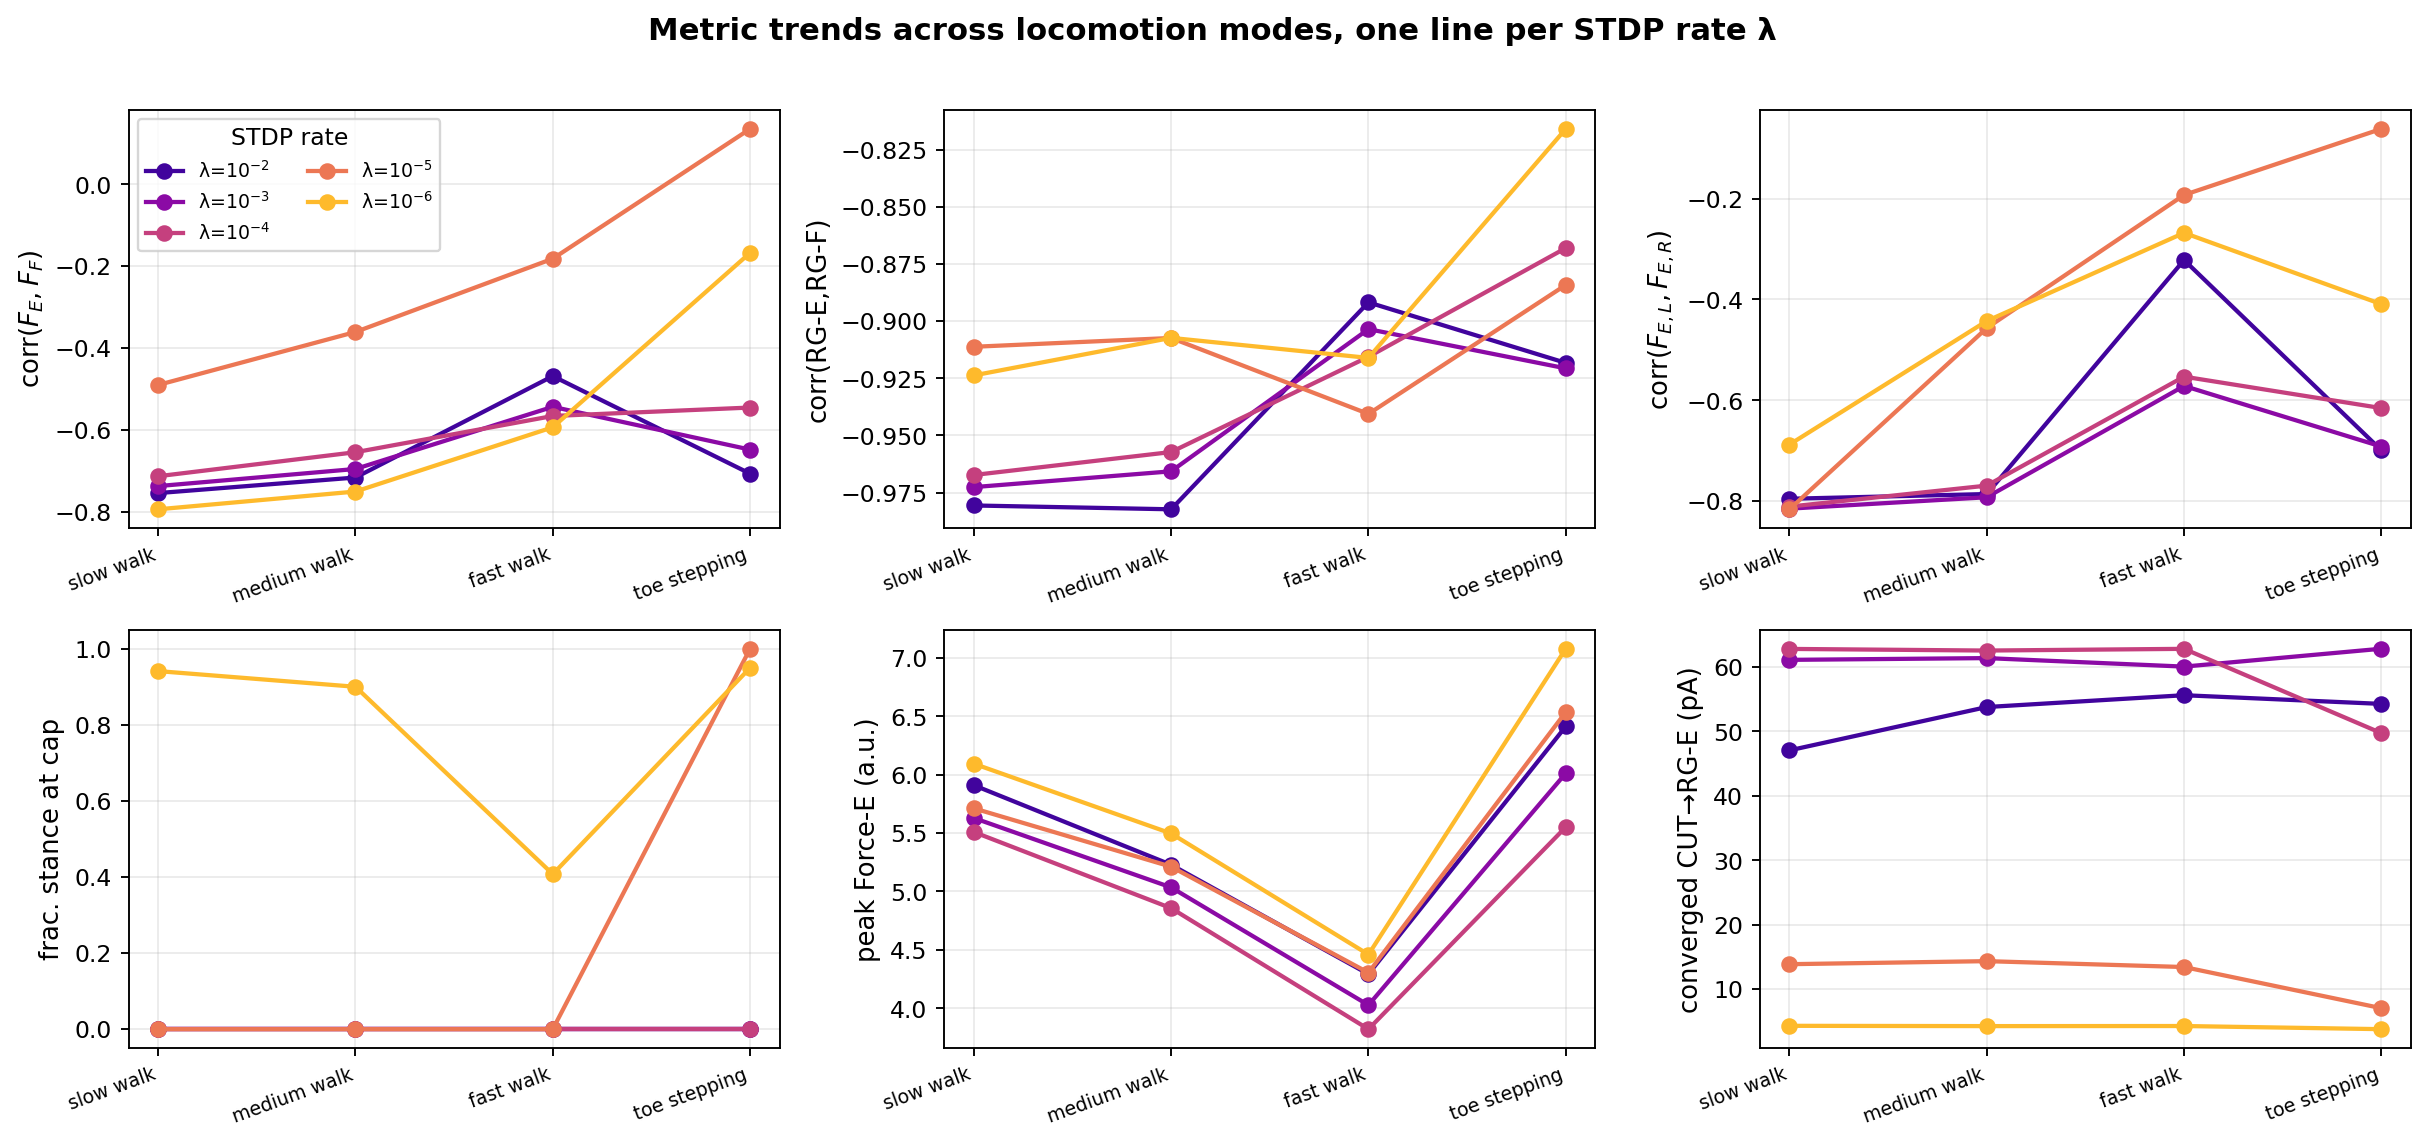
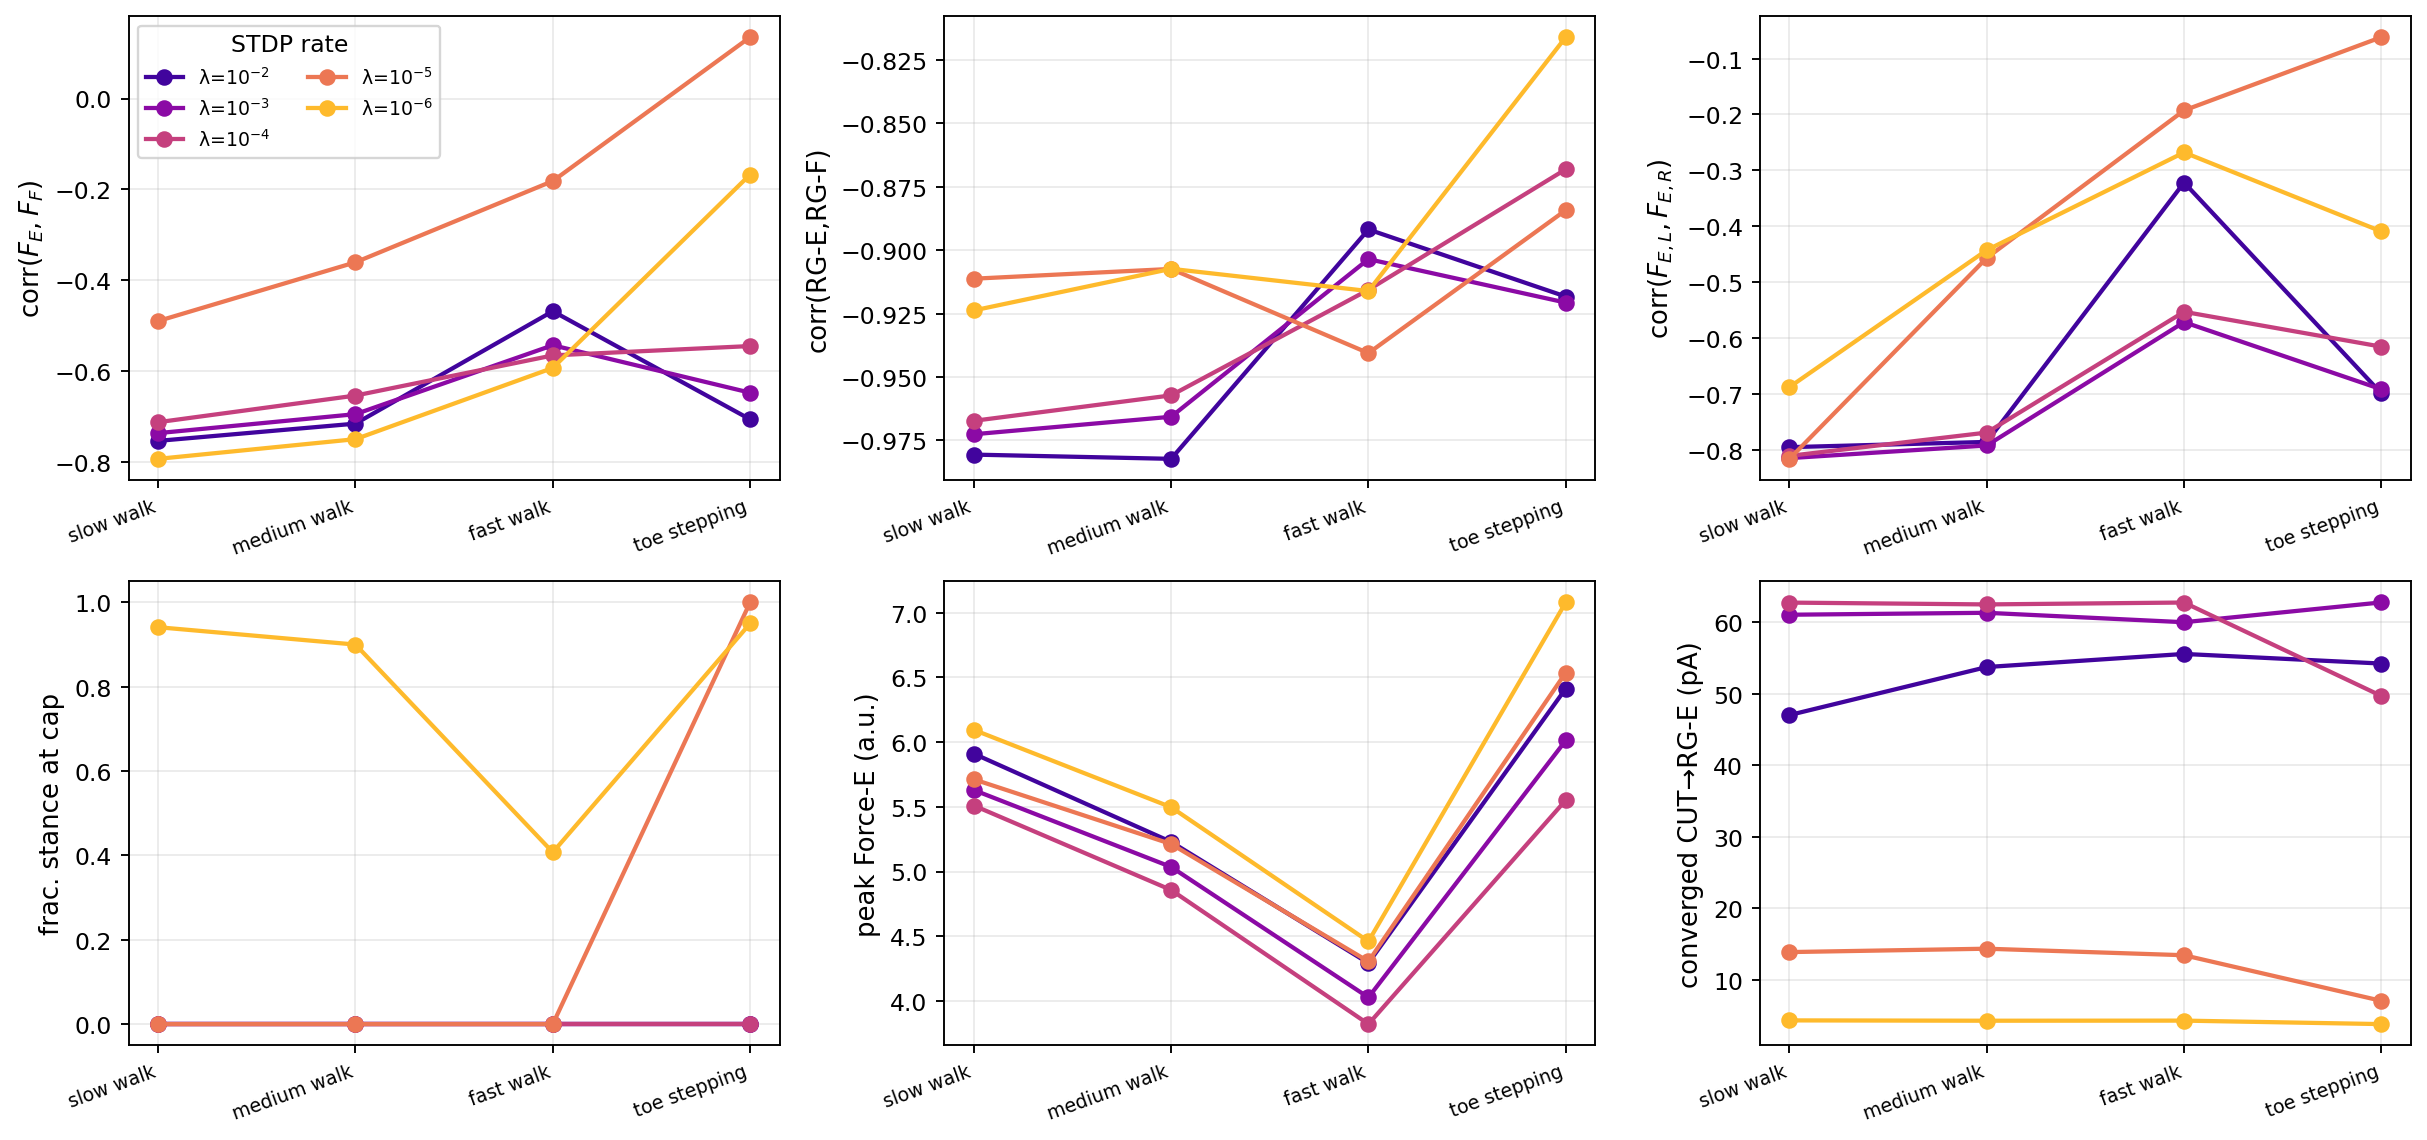
Paper: add abstract, fix float placement, improve figure legibility
- Abstract written for the force-triggered descending-arm results and
  re-enabled in main.tex; keywords updated.
- \clearpage before the Discussion so Results figures/tables no longer
  float into it; keep the supplementary connectivity table with its heading.
- Fig 3 (round 6) relaid out 2x2; Fig 4 decluttered with larger fonts;
  Fig 16 in-figure title removed.
- Wording: only stance *termination* is force-triggered (swing lasts a fixed
  time), corrected in Methods, Introduction, Results and Discussion.

diff --git a/paper/sections/abstract.tex b/paper/sections/abstract.tex
@@ -1,36 +1,35 @@
-% Abstract — write last. Target 200-250 words for PLOS Comp Bio,
-% up to 350 for Frontiers in Comp Neuro.
+% Abstract — target 200-250 words for PLOS Comp Bio, up to 350 for Frontiers
+% in Comp Neuro. Numbers from results/2026-09-25_ftgrid and round 6.
 
 \begin{abstract}
 \noindent
-\todo{Write last. Suggested structure:}
-\begin{itemize}
-  \item[(1)] \textbf{Context.} Computational spinal CPG models in the
-        Rybak/Danner/Zhang lineage capture central interlimb coordination
-        in fine detail but, by the authors' own account, omit motoneurons,
-        muscle dynamics, sensory feedback, and synaptic plasticity.
-  \item[(2)] \textbf{Question.} Can a computational sCPG self-organise its
-        descending and cutaneous afferent weights through STDP while
-        being closed-loop with biomechanical output?
-  \item[(3)] \textbf{Approach.} Two-leg NEST model of a rat spinal CPG
-        with Izhikevich neurons, STDP on BS$\to$RG and CUT$\to$RG synapses,
-        closed-loop Ia$\to$reciprocal-inhibition feedback, motoneuron pools,
-        Hill-like force/length proxies, and externally paced heel$\to$toe
-        Ia activation.
-  \item[(4)] \textbf{Results.} Stable counter-phase locomotion for
-        \SI{120}{\second} (120 cycles), peak force 17.4\,a.u., E/F
-        correlation $-0.91$. Cycle period tracks commanded step period
-        across \SIrange{600}{1400}{\milli\second} (rat walk$\to$trot range)
-        with $<\SI{0.5}{\milli\second}$ error. Ablation reveals that
-        commissural inhibition and paced descending drive are necessary;
-        the Ia loop and asymmetric reciprocal inhibition are redundant
-        under paced drive.
-  \item[(5)] \textbf{Implications.} Locomotor patterns can self-organise
-        from STDP given paced sensory drive, extending the Rybak central
-        architecture below the rhythm generator and into the closed loop.
-\end{itemize}
+Computational models of the spinal central pattern generator (CPG) in the
+Rybak/Danner/Zhang lineage capture interlimb coordination in detail but, by
+their authors' own account, omit motoneurons, muscle dynamics, sensory
+feedback and synaptic plasticity, and prescribe every synaptic weight by
+hand. We asked whether a spinal CPG closed in a loop with its periphery can
+tune its own synapses to a working gait. We built a two-leg spiking model of
+the rat lumbar CPG in NEST: Izhikevich rhythm-generator half-centres with
+asymmetric reciprocal inhibition, motoneuron pools driving muscle proxies with
+force, length and fatigue, Ia feedback into the reciprocal-inhibition core, and
+spike-timing-dependent plasticity (STDP) on the cutaneous and brainstem inputs
+to the rhythm generators. Stance is not ended by a clock: each leg's stance
+ends when its own extensor force falls. From ten initial weight distributions
+($0$--$16$\,pA) the plastic synapses converge to the same values (cutaneous
+$\approx61$\,pA, brainstem $\approx16$\,pA) and produce the same alternating
+gait. Across four locomotion modes --- slow, medium and fast walk, and toe
+stepping under partial unloading --- and five learning rates, learning that
+converges within the session yields force-triggered, alternating stepping in
+every mode (extensor--flexor force correlation $-0.47$ to $-0.75$;
+left--right $-0.32$ to $-0.81$). Without learning the rhythm falls back on a
+safety timer, and a partially learned synapse produces the least coordinated
+gait of all. Partial unloading slows learning without abolishing the gait.
+The sensorimotor gains of a spinal CPG can thus be learned rather than
+prescribed, and whether the closed loop takes over depends on how much
+plasticity is available --- a mechanistic account relevant to activity-based
+rehabilitation after incomplete spinal cord injury.
 \end{abstract}
 
 \noindent\textbf{Keywords:} spinal central pattern generator, STDP,
-locomotion, sensory feedback, Ia afferent, NEST simulator, computational
-neuroscience.
+locomotion, sensory feedback, force-triggered stepping, spinal cord injury,
+rehabilitation, NEST simulator.

diff --git a/paper/sections/results.tex b/paper/sections/results.tex
@@ -14,10 +14,10 @@ two-legged spinal CPG: a spiking network that, driven by a weak tonic brainstem
 input and sensory feedback, produces the alternating extensor/flexor muscle
 activity of walking. Each leg contains two mutually-inhibiting neuron pools ---
 an \emph{extensor} and a \emph{flexor} rhythm generator (RG-E and RG-F) --- that
-drive motor neurons and simple muscle models. Stance and swing are not imposed
-by a clock: each leg's paw-contact (cutaneous) input is switched on when its own
-extensor force rises and off when that force falls
-(\autoref{sec:methods:paced}). A good walking rhythm is one in which extensor
+drive motor neurons and simple muscle models. Stance is not ended by a clock:
+each leg's stance, and with it its paw-contact (cutaneous) input, ends when
+that leg's own extensor force falls below a threshold; swing then lasts a
+fixed time (\autoref{sec:methods:paced}). A good walking rhythm is one in which extensor
 and flexor are active in strict alternation (``counter-phase''); we measure this
 by the Pearson correlation between the two muscle forces, which is $-1$ for
 perfect alternation and $0$ for none, and measure left--right alternation the
@@ -48,13 +48,13 @@ corr$(F_{E,L},F_{E,R})$ between $-0.77$ and $-0.79$.
 
 \begin{figure}[t]
   \centering
-  \includegraphics[width=\textwidth]{fig_init_robustness.png}
+  \includegraphics[width=0.85\textwidth]{fig_init_robustness.png}
   \caption{\textbf{Initialisation robustness of force-triggered stepping.}
     Medium walk, $\lambda=10^{-3}$, ten STDP initial-weight distributions
     ($\mu=0$--$16$\,pA; colour). \textbf{(a--c)} Weight trajectories of
     CUT$\to$RG-E, BS$\to$RG-E and BS$\to$RG-F (leg L, pA) versus time (s).
     \textbf{(d)} Steady-state ($t\ge30$\,s) gait metrics versus initial mean
-    weight: extensor/flexor force correlation per leg, left/right extensor
+    weight $\mu$: extensor/flexor force correlation per leg, left/right extensor
     force correlation, and the fraction of stance bouts ended by the timeout.}
   \label{fig:init_robustness}
 \end{figure}
@@ -122,8 +122,8 @@ fall. Under partial unloading the gait visibly sharpens as the weight grows
 the last). Extensor force peaks at $\approx4$--$7$\,a.u.: stance now ends when
 fatigue has pulled force below the threshold, before it saturates.
 
-At the two slowest rates the gait does not form. At $\lambda=10^{-5}$ the loop
-still switches on the force threshold, but with the cutaneous synapse still
+At the two slowest rates the gait does not form. At $\lambda=10^{-5}$ stance
+still ends on the force threshold, but with the cutaneous synapse still
 weak the alternation degrades (corr$(F_E,F_F)$ $-0.18$ to $-0.49$ in the walking
 modes), and in toe stepping stance already runs to the timeout. At
 $\lambda=10^{-6}$ the synapses stay at their initial values and, in every mode,

diff --git a/scripts/cpg_stdp_weights_grid.py b/scripts/cpg_stdp_weights_grid.py
@@ -51,29 +51,31 @@ def main():
                             axr.plot(t, np.asarray(h[f"leg_L/weights/{key}"]),
                                      color=col, lw=1.6, ls="--", label=name)
             ax.set_xlim(0, 120); ax.set_ylim(0, ymax_l); axr.set_ylim(0, ymax_r)
-            ax.grid(alpha=0.2); ax.tick_params(labelsize=9); axr.tick_params(labelsize=9)
+            ax.grid(alpha=0.2); ax.tick_params(labelsize=12); axr.tick_params(labelsize=12)
+            if c != 0:
+                ax.set_yticklabels([])
+            if c != nc - 1:
+                axr.set_yticklabels([])
             if r == 0:
-                ax.set_title(llab, fontsize=14, fontweight="bold")
+                ax.set_title(llab, fontsize=18, fontweight="bold")
             if c == 0:
-                ax.set_ylabel(mlabel + f"\n\n{CUT[1]} weight (pA)", fontsize=11)
-            else:
-                ax.set_ylabel(f"{CUT[1]} weight (pA)", fontsize=10)
+                ax.set_ylabel(mlabel + f"\n\n{CUT[1]} (pA)", fontsize=15)
             if c == nc - 1:
-                axr.set_ylabel(G["aux_axis"], fontsize=11, color="0.35")
+                axr.set_ylabel(G["aux_axis"], fontsize=14, color="0.35")
             axr.tick_params(axis="y", labelcolor="0.35")
             if r == nr - 1:
-                ax.set_xlabel("time (s)", fontsize=12)
+                ax.set_xlabel("time (s)", fontsize=15)
     # panel index letters (row-major)
     _L = [chr(97 + i) if i < 26 else chr(96 + i // 26) + chr(97 + i % 26) for i in range(nr * nc)]
     for i, ax in enumerate(axes.flat):
-        ax.text(0.03, 0.96, f"({_L[i]})", transform=ax.transAxes, fontsize=12,
+        ax.text(0.03, 0.96, f"({_L[i]})", transform=ax.transAxes, fontsize=14,
                 fontweight="bold", va="top", ha="left")
 
     # single combined legend
     h1 = [plt.Line2D([0], [0], color=CUT[2], lw=2.0, label=CUT[1] + " (left axis)")]
     h2 = [plt.Line2D([0], [0], color=c, lw=1.6, ls="--", label=n + " (right axis)")
           for _, n, c in IAS]
-    axes[-1][-1].legend(handles=h1 + h2, loc="lower right", ncol=1, fontsize=10,
+    axes[-1][-1].legend(handles=h1 + h2, loc="center right", ncol=1, fontsize=12,
                         frameon=True, framealpha=0.95)
     fig.tight_layout()
     fig.savefig(args.out, dpi=args.dpi, bbox_inches="tight")

diff --git a/scripts/cpg_init_robustness.py b/scripts/cpg_init_robustness.py
@@ -56,15 +56,16 @@ def main():
     cmap = plt.cm.viridis
     col = lambda mu: cmap(mu / max(mus.max(), 1e-9))
 
-    plt.rcParams.update({"font.size": 12})
-    fig, axes = plt.subplots(1, 4, figsize=(20, 4.4))
+    plt.rcParams.update({"font.size": 13})
+    fig, axes2 = plt.subplots(2, 2, figsize=(12, 8.4), layout="constrained")
+    axes = [axes2[0][0], axes2[0][1], axes2[1][0], axes2[1][1]]
     for ax, (k, lab, ymax) in zip(axes[:3], PROJ):
         for r in runs:
             ax.plot(r["t"], r["w"][k], color=col(r["mu"]), lw=1.4)
         ax.set_xlim(0, 120); ax.set_ylim(0, ymax); ax.grid(alpha=0.2)
         ax.set_xlabel("time (s)"); ax.set_ylabel(f"{lab} weight (pA)")
     sm = plt.cm.ScalarMappable(cmap=cmap, norm=plt.Normalize(0, mus.max()))
-    fig.colorbar(sm, ax=axes[2], fraction=0.05, pad=0.02).set_label("initial mean μ (pA)")
+    fig.colorbar(sm, ax=list(axes2[0]), fraction=0.04, pad=0.02).set_label("initial mean μ (pA)")
 
     ax = axes[3]
     ax.plot(mus, [r["corrF"]["L"] for r in runs], "o-", color="#c1440e", label="corr($F_E,F_F$), leg L")
@@ -74,11 +75,10 @@ def main():
     ax.axhline(0, color="black", lw=0.6)
     ax.set_ylim(-1, 1); ax.grid(alpha=0.2)
     ax.set_xlabel("initial mean μ (pA)"); ax.set_ylabel("steady-state metric")
-    ax.legend(fontsize=9, loc="upper right")
+    ax.legend(fontsize=11, loc="upper right")
     for i, ax in enumerate(axes):
         ax.text(0.02, 0.97, f"({chr(97 + i)})", transform=ax.transAxes, fontsize=13,
                 fontweight="bold", va="top")
-    fig.tight_layout()
     fig.savefig(args.out, dpi=args.dpi, bbox_inches="tight"); plt.close(fig)
     print(f"[init-robustness] {len(runs)} runs -> {args.out}")
     for r in runs:

diff --git a/paper/sections/discussion.tex b/paper/sections/discussion.tex
@@ -9,8 +9,8 @@ cutaneous and descending synapses onto the rhythm generators rather than have
 them hand-set; (ii) a closed loop from muscle-force feedback (Ia) into the
 reciprocal-inhibition core; (iii) motoneuron pools driving explicit muscle
 proxies with force, length and fatigue dynamics; and (iv) closed-loop stance
-detection, in which each leg's paw-contact input is switched by its own
-extensor force rather than by a clock. Using this model we asked how a spinal
+termination, in which each leg's stance ends when its own extensor force falls
+rather than on a clock. Using this model we asked how a spinal
 CPG's own synaptic weights should be organised to produce a stable walking
 rhythm, and how that self-tuned rhythm depends on walking speed, on partial
 unloading and on how fast the synapses can learn --- the variables manipulated
@@ -137,9 +137,7 @@ locomotor recovery after incomplete SCI in rats~\cite{ballermannFouad2006}.
 Neither models repair of a severed pathway.
 
 An additional clinically relevant observation is that the effectiveness of
-recovery depends on the degree of plasticity.
-
-In the simulations, too little plasticity leaves the gait on its safety timer
+recovery depends on the degree of plasticity. In the simulations, too little plasticity leaves the gait on its safety timer
 and an intermediate, still-developing level of plasticity produces the least
 coordinated gait of all (\autoref{sec:results:comparison}); the fastest rate
 converges within seconds but leaves the learned weights fluctuating from step

diff --git a/paper/sections/introduction.tex b/paper/sections/introduction.tex
@@ -87,10 +87,10 @@ force- and length-driven Ia feedback projecting back into the
 reciprocal-inhibition interneurons (InE/InF) that gate the rhythm generators
 (RG-E/RG-F); (3) explicit motoneuron pools (M-E/M-F) and Hill-style muscle
 proxies that turn rhythm-generator output into graded force and length; and
-(4) closed-loop, force-triggered stance/swing switching, in which each
-leg's paw-contact input is turned on and off by that leg's own extensor
-force rather than by a clock, with a sequential Ia activation reproducing
-the heel$\to$mid$\to$toe pressure transfer within each stance. Rather than prescribing
+(4) closed-loop, force-triggered stance termination, in which each leg's
+stance and paw-contact input end when that leg's own extensor force falls
+rather than on a clock, with a sequential Ia activation reproducing the
+heel$\to$mid$\to$toe pressure transfer within each stance. Rather than prescribing
 the strength of the key sensorimotor pathways, we let them self-organize
 through ongoing activity, and we ask how the resulting locomotor pattern
 degrades as sensory feedback is withdrawn while a reduced, tonic

diff --git a/paper/sections/methods.tex b/paper/sections/methods.tex
@@ -12,9 +12,9 @@ synapses onto the rhythm generator;
 interneurons;
 (iii) motoneuron pools driving Hill-like muscle proxies with force and
 length dynamics;
-(iv) closed-loop, force-triggered stance/swing switching: each leg's
-cutaneous (paw-contact) input is switched on and off by that leg's own
-extensor force rather than by a clock, with sequential Ia activation
+(iv) closed-loop, force-triggered stance termination: each leg's stance
+(and its cutaneous paw-contact input) ends when that leg's own extensor
+force falls, rather than on a clock, with sequential Ia activation
 simulating heel-to-toe weight transfer within each stance.
 The model is implemented in NEST~3.9~\cite{nest2002} and is publicly
 available at \href{https://github.com/max-talanov/tinyCPG}{github.com/max-talanov/tinyCPG}.

diff --git a/scripts/cpg_mode_lambda_summary.py b/scripts/cpg_mode_lambda_summary.py
@@ -122,9 +122,7 @@ def main():
         ax.set_xticks(x); ax.set_xticklabels(mode_short, fontsize=8, rotation=20, ha="right")
         ax.set_ylabel(mlab, fontsize=11); ax.grid(alpha=0.25)
     axes[0][0].legend(fontsize=8, ncol=2, title="STDP rate")
-    fig.suptitle("Metric trends across locomotion modes, one line per STDP rate λ",
-                 fontsize=13, fontweight="bold")
-    fig.tight_layout(rect=(0, 0, 1, 0.97))
+    fig.tight_layout()
     fig.savefig(args.out + "_trends.png", dpi=170, bbox_inches="tight"); plt.close(fig)
 
     # (c) table (CSV + LaTeX)

diff --git a/paper/main.tex b/paper/main.tex
@@ -63,8 +63,7 @@
 \begin{document}
 \maketitle
 
-% NOTE: Abstract is temporarily removed while Methods + Results are finalised.
-% \input{sections/abstract}
+\input{sections/abstract}
 
 \section{Introduction}\label{sec:intro}
 \input{sections/introduction}
@@ -78,6 +77,7 @@
 \section{Results}\label{sec:results}
 \input{sections/results}
 
+\clearpage  % flush all Results figures/tables before the Discussion
 \section{Discussion}\label{sec:discussion}
 \input{sections/discussion}
 

diff --git a/paper/sections/supplementary.tex b/paper/sections/supplementary.tex
@@ -6,6 +6,7 @@
 
 \subsection*{Supplementary Table: connectivity}
 \input{connectivity_table}
+\clearpage  % keep the table with its heading
 
 \subsection*{Supplementary Figures}
 
